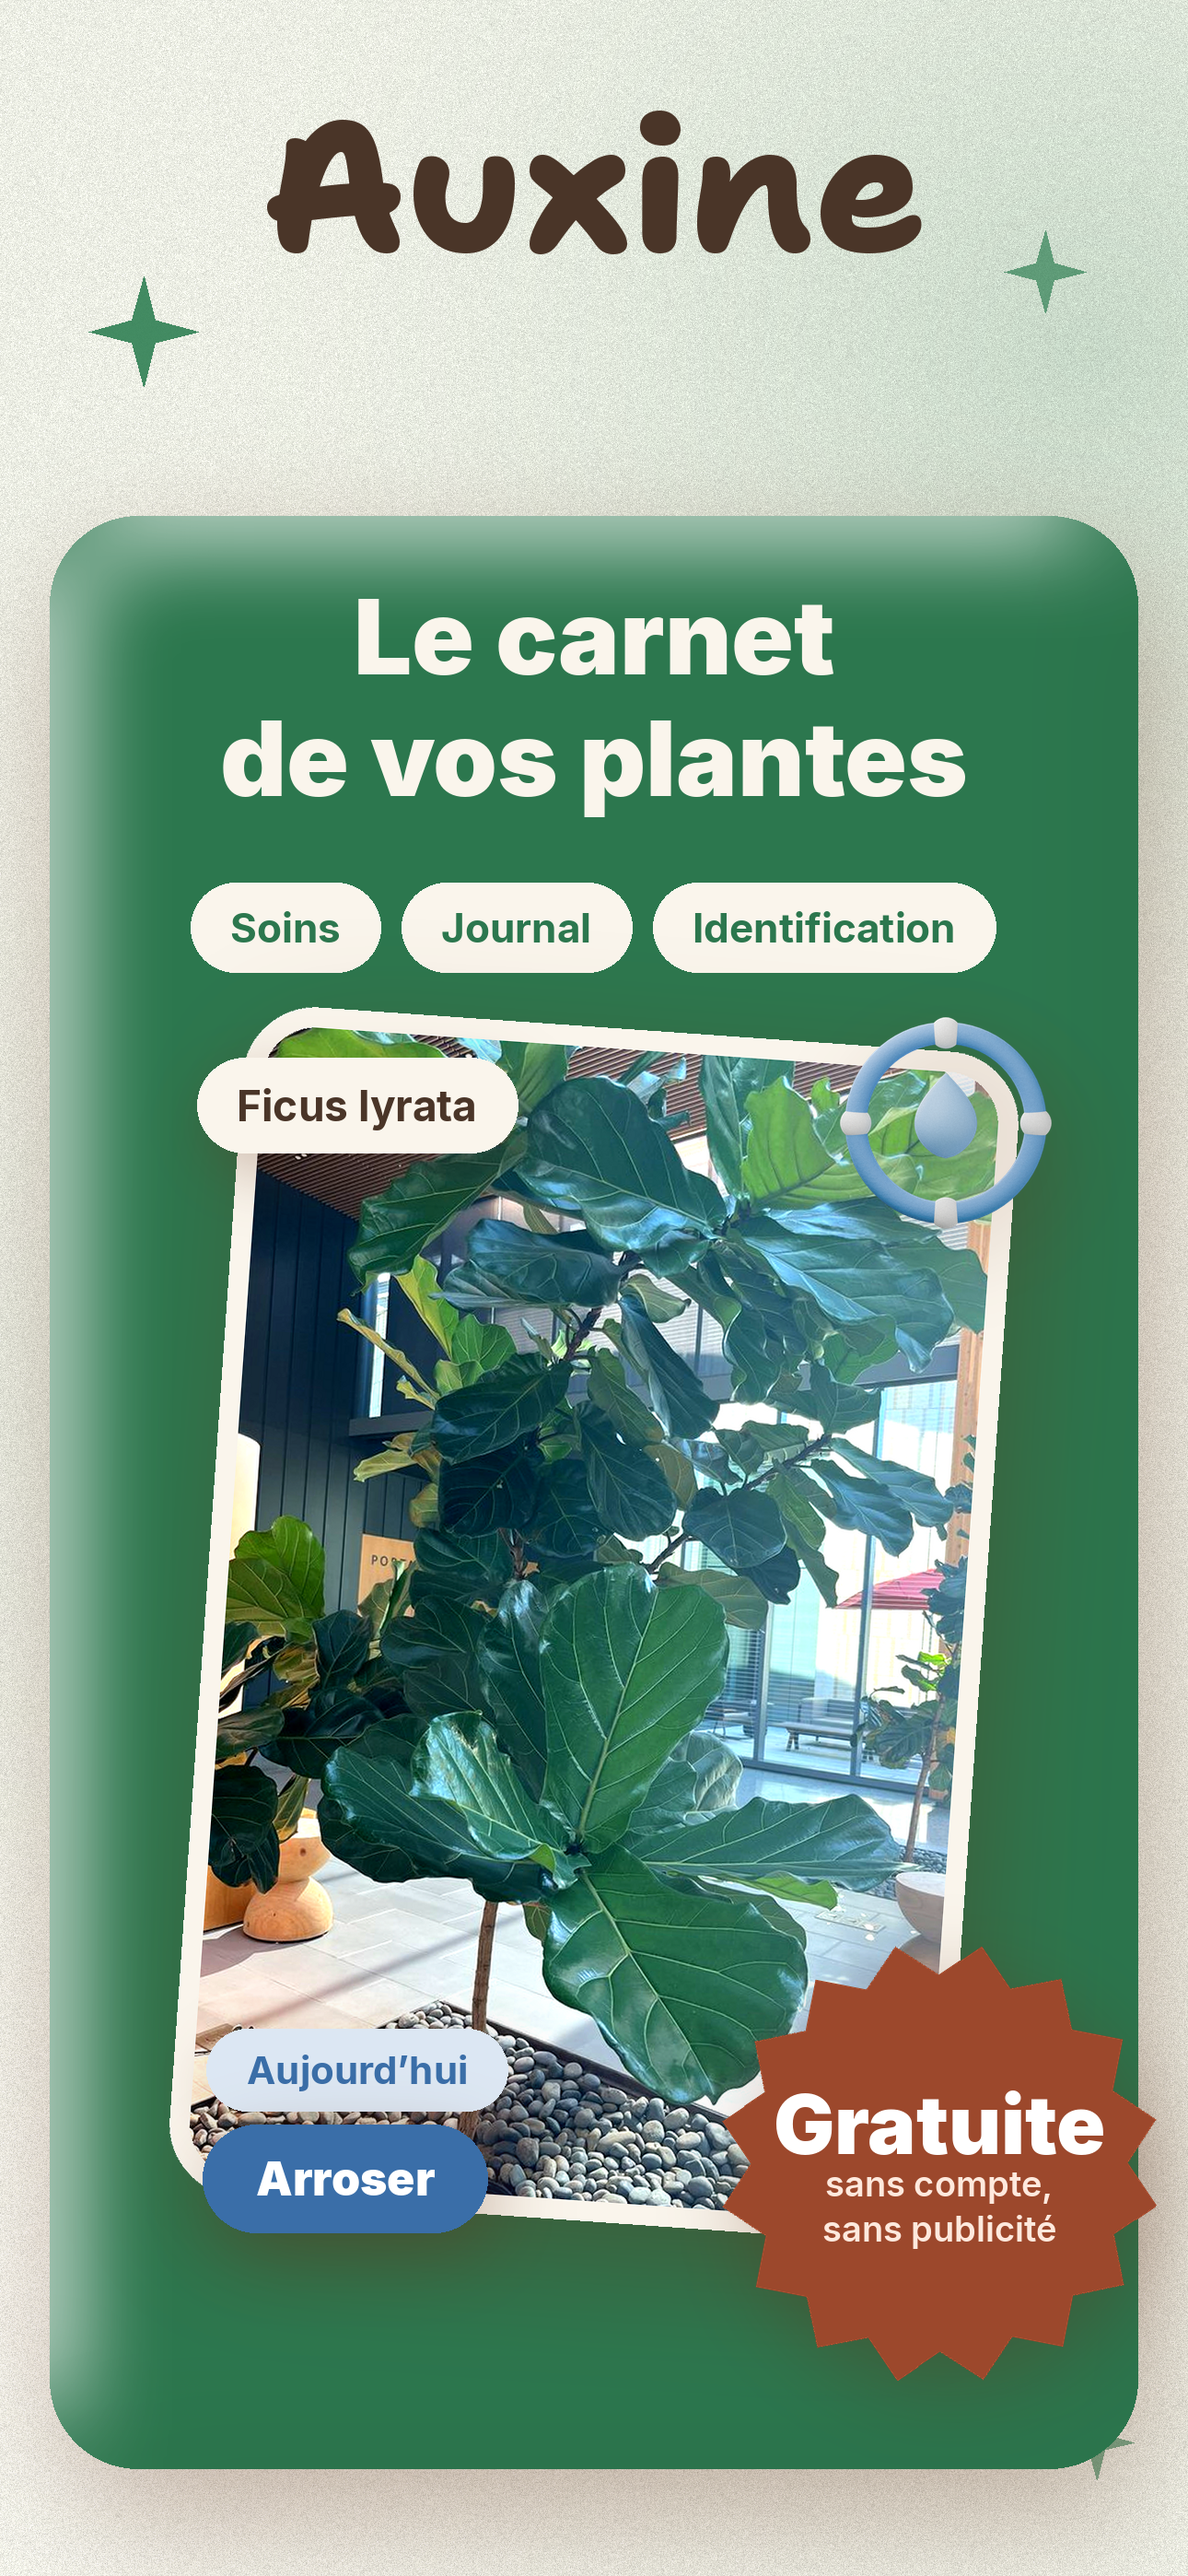
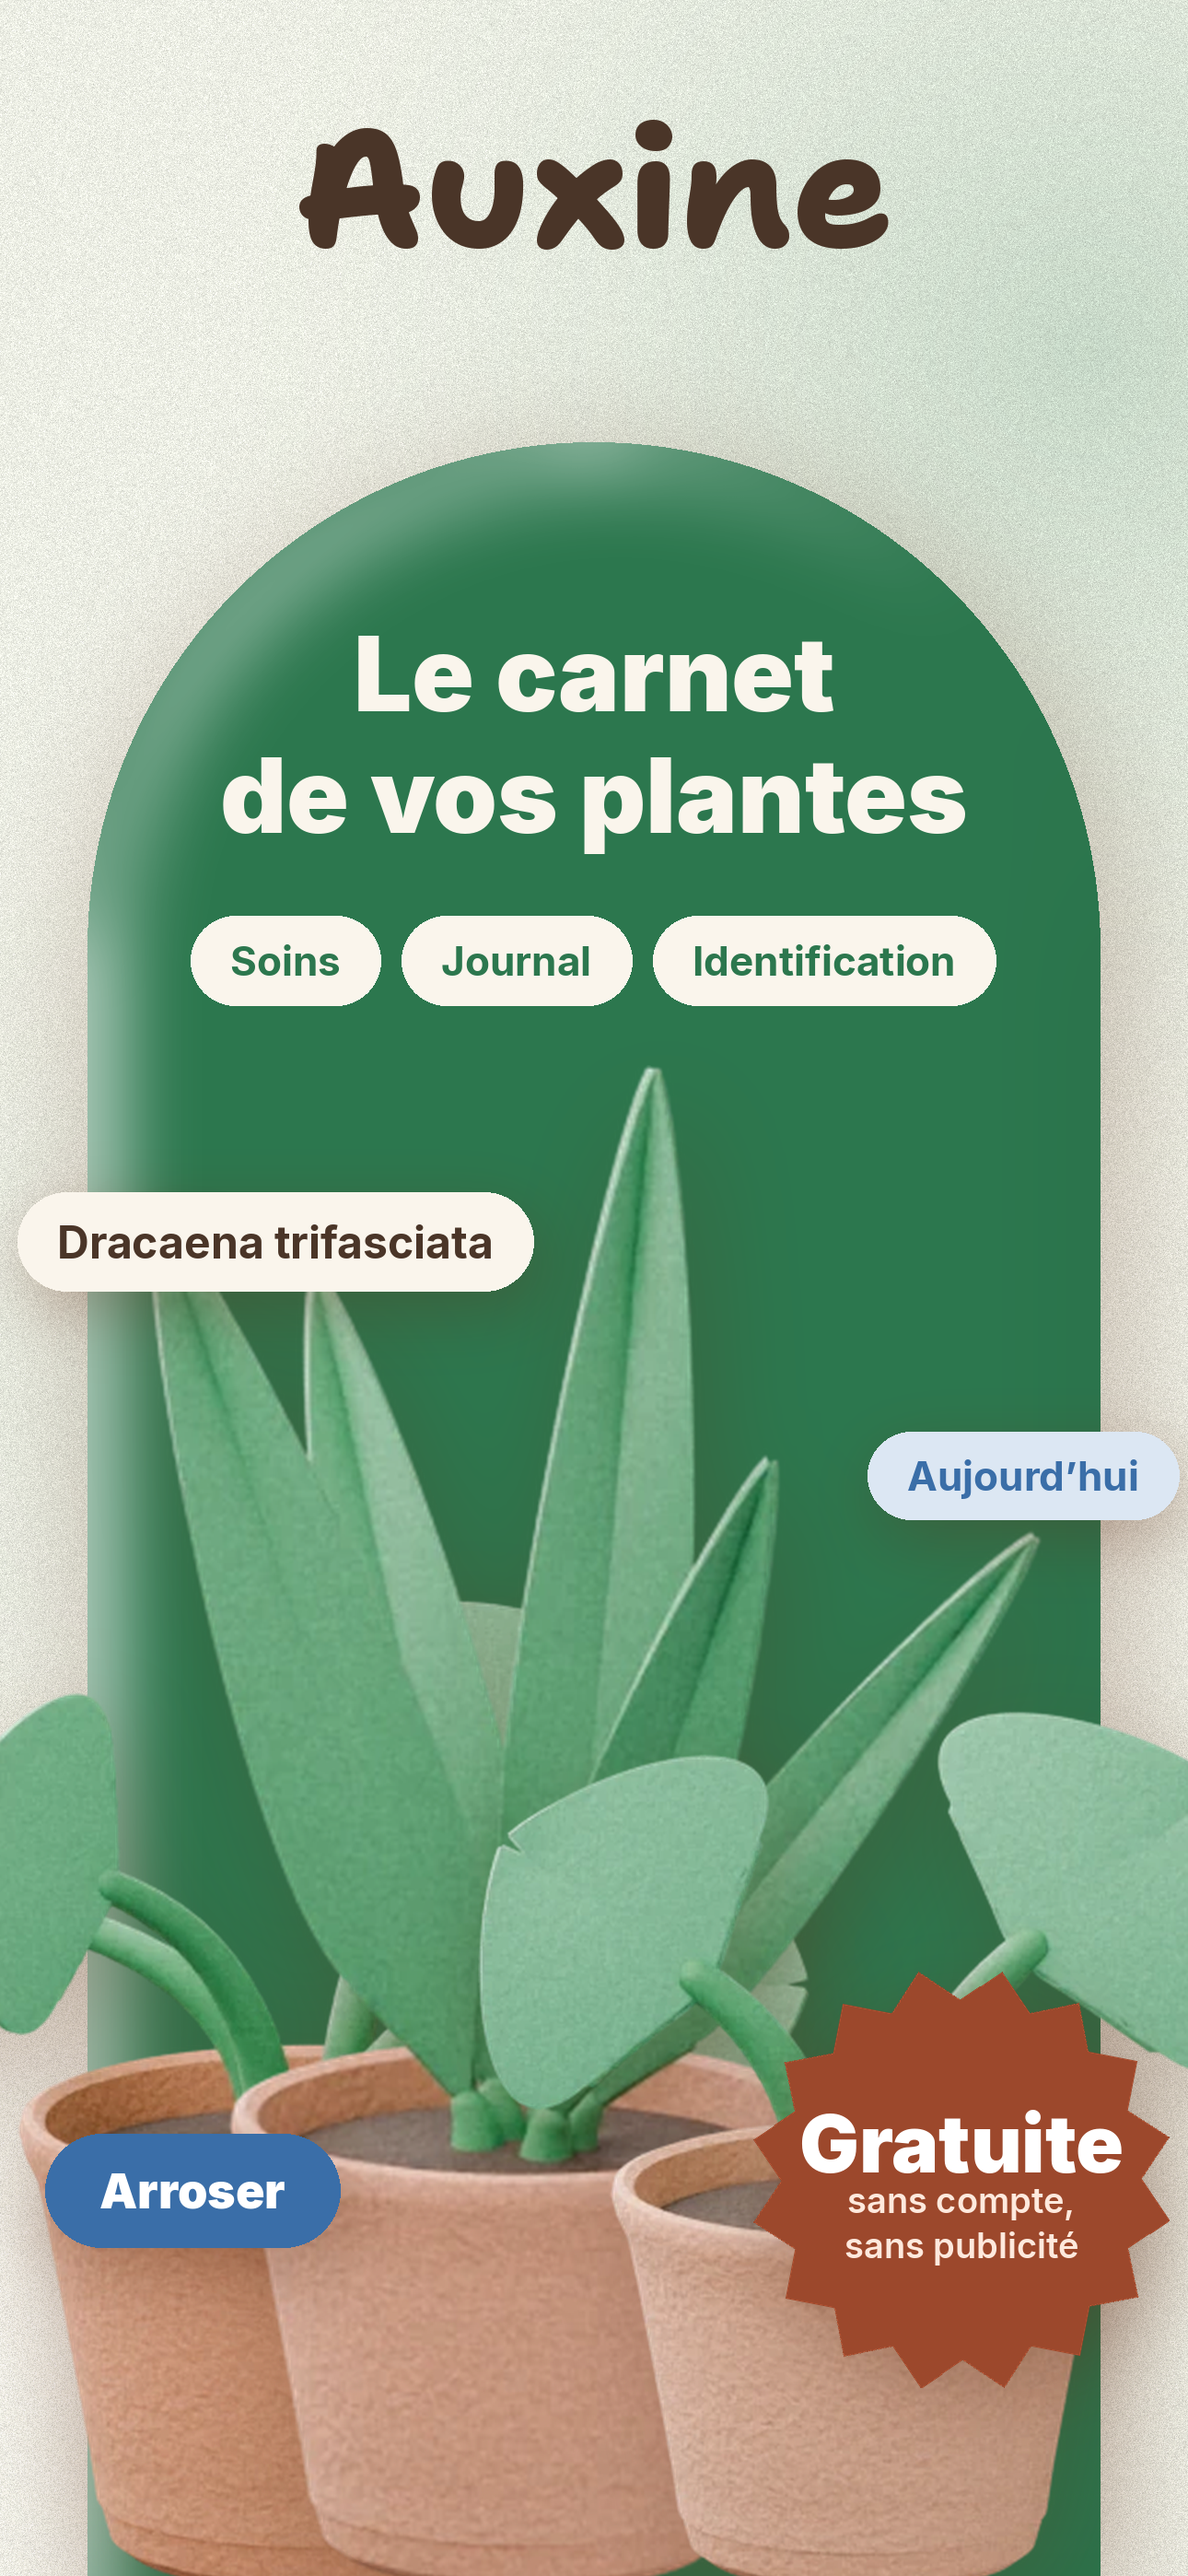
La fiche d'ouverture : une arche, un massif, plus de boîtes emboîtées
Une dalle posée sur le papier, un cadre photo posé sur la dalle : trois
rectangles arrondis l'un dans l'autre, et un grand vide vert entre les
deux. C'était ça, le laid.

L'arche règle les deux : elle sort du cadre par le bas, donc elle n'est
plus une boîte, et un massif de trois plantes d'argile la remplit à
grande échelle — celles de l'onboarding, pas une image de plus. Les
pastilles de l'app se posent à cheval sur son bord, l'autocollant sur le
massif. Le nom reste tracé à la main sur le papier.

`clay_card` devient un cas particulier de `clay_shape` : le biseau et
l'ombre de l'argile s'appliquent désormais à n'importe quelle silhouette,
l'arche comprise.

Claude-Session: https://claude.ai/code/session_01NWyBLWU43KdbaGJZsmnCAH

diff --git a/store/compose.py b/store/compose.py
@@ -21,7 +21,7 @@ import os
 import sys
 
 import numpy as np
-from PIL import Image, ImageDraw, ImageEnhance, ImageFilter, ImageFont
+from PIL import Image, ImageDraw, ImageFilter, ImageFont
 
 W, H = 1290, 2796
 HERE = os.path.dirname(os.path.abspath(__file__))
@@ -249,13 +249,11 @@ def paste_with_shadow(canvas, layer, pos, blur=40, offset=(0, 30), alpha=0.28):
     canvas.alpha_composite(layer, pos)
 
 
-def clay_card(size, radius, color=SURFACE):
-    """Une carte d'argile comme celles de l'app : l'aplat, un reflet en haut
-    à gauche, une ombre en bas à droite, rognés à la forme. Le calque rendu
-    est transparent hors de la carte ; l'ombre portée se pose à part."""
-    w, h = size
-    mask = Image.new('L', (w, h), 0)
-    ImageDraw.Draw(mask).rounded_rectangle((0, 0, w - 1, h - 1), radius=radius, fill=255)
+def clay_shape(mask, color=SURFACE):
+    """Une pièce d'argile à la forme donnée : l'aplat, un reflet en haut à
+    gauche, une ombre en bas à droite, rognés à la forme. Le calque rendu est
+    transparent hors de la pièce ; l'ombre portée se pose à part."""
+    w, h = mask.size
     layer = Image.new('RGBA', (w, h), color + (255,))
 
     def rim(dx, dy, blur):
@@ -273,6 +271,22 @@ def clay_card(size, radius, color=SURFACE):
     layer.alpha_composite(shade)
     layer.putalpha(mask)
     return layer
+
+
+def clay_card(size, radius, color=SURFACE):
+    """Une carte d'argile comme celles de l'app."""
+    mask = Image.new('L', size, 0)
+    ImageDraw.Draw(mask).rounded_rectangle((0, 0, size[0] - 1, size[1] - 1), radius=radius, fill=255)
+    return clay_shape(mask, color)
+
+
+def clay_arch(width, height, color=SURFACE):
+    """Une arche : un plein cintre posé sur des montants droits. Elle sort du
+    cadre par le bas, et rien dans la fiche ne se retrouve dans une boîte
+    dans une boîte."""
+    mask = Image.new('L', (width, height), 0)
+    ImageDraw.Draw(mask).rounded_rectangle((0, 0, width - 1, height + width), radius=width // 2, fill=255)
+    return clay_shape(mask, color)
 
 
 def place_phone(canvas, shot, y, width=1030, **modal):
@@ -406,8 +420,7 @@ COVER = {
     'fr': {
         'claim': 'Le carnet\nde vos plantes',
         'chips': ['Soins', 'Journal', 'Identification'],
-        'photo': 'ficus.jpg',
-        'species': 'Ficus lyrata',
+        'species': 'Dracaena trifasciata',
         'action': 'Arroser',
         'due': 'Aujourd’hui',
         'badge': ['Gratuite', 'sans compte,\nsans publicité'],
@@ -415,8 +428,7 @@ COVER = {
     'en': {
         'claim': 'The journal\nof your plants',
         'chips': ['Care', 'Journal', 'Identification'],
-        'photo': 'ficus.jpg',
-        'species': 'Ficus lyrata',
+        'species': 'Dracaena trifasciata',
         'action': 'Water',
         'due': 'Today',
         'badge': ['Free', 'no account,\nno ads'],
@@ -444,27 +456,6 @@ def starburst(size, points, inner, color):
     return layer
 
 
-def framed_photo(name, size, radius=56, border=22, angle=0.0):
-    """Une photo dans son cadre crème, épais : l'app montre des photos, et
-    une photo posée sans bord se confond avec le fond."""
-    photo = Image.open(os.path.join(HERE, 'demo-photos', name)).convert('RGB')
-    # Une photo d'intérieur sort terne à côté d'un aplat saturé : on la
-    # remonte comme le ferait un tirage, sans la dénaturer.
-    photo = ImageEnhance.Brightness(photo).enhance(1.16)
-    photo = ImageEnhance.Color(photo).enhance(1.26)
-    photo = ImageEnhance.Contrast(photo).enhance(1.08)
-    w, h = size
-    scale = max(w / photo.width, h / photo.height)
-    photo = photo.resize((int(photo.width * scale), int(photo.height * scale)), Image.LANCZOS)
-    photo = photo.crop(((photo.width - w) // 2, (photo.height - h) // 2, (photo.width - w) // 2 + w, (photo.height - h) // 2 + h))
-    card = Image.new('RGBA', (w + 2 * border, h + 2 * border), (0, 0, 0, 0))
-    ImageDraw.Draw(card).rounded_rectangle((0, 0, card.width - 1, card.height - 1), radius=radius + border, fill=CREAM + (255,))
-    mask = Image.new('L', (w, h), 0)
-    ImageDraw.Draw(mask).rounded_rectangle((0, 0, w - 1, h - 1), radius=radius, fill=255)
-    card.paste(photo, (border, border), mask)
-    return card.rotate(angle, resample=Image.BICUBIC, expand=True) if angle else card
-
-
 def chip(text, fnt, fill, ink, height=98, pad=44, radius=None):
     """Une pastille pleine : les boutons et les badges de l'app, en plus gros."""
     d0 = ImageDraw.Draw(Image.new('RGB', (10, 10)))
@@ -475,36 +466,40 @@ def chip(text, fnt, fill, ink, height=98, pad=44, radius=None):
     return layer
 
 
+# Le massif du bas de l'arche : l'asset, sa hauteur, l'abscisse de son pot.
+# Trois plantes de l'onboarding qui se chevauchent, comme un coin de pièce.
+COVER_PLANTS = [
+    ('collection_ronde.webp', 1080, 350),
+    ('collection_sansevieria.webp', 1660, 645),
+    ('collection_semis.webp', 960, 945),
+]
+
+
 def cover(lang):
-    """La fiche d'ouverture : le papier crème de l'app, une dalle d'argile
-    sauge posée dessus, et sur la dalle une vraie photo dans son cadre, les
-    objets d'argile de l'app et ses pastilles. Le nom est tracé à la main,
-    la revendication est en gras : c'est la seule fiche qui hausse le ton."""
+    """La fiche d'ouverture : le nom tracé sur le papier de l'app, puis une
+    arche d'argile sauge qui sort du cadre. Dedans, la revendication en gras,
+    les mots de la fiche, un massif de plantes d'argile, et les pastilles de
+    l'app posées à cheval sur le bord."""
     t = COVER[lang]
     img = background('sage')
-
-    # Quelques éclats d'argile, comme sur un autocollant.
-    for (sx, sy, ss, a) in ((96, 300, 120, 0.9), (1090, 250, 90, 0.7), (60, 2520, 104, 0.8), (1150, 2610, 82, 0.6)):
-        spark = starburst(ss, 4, 0.3, TINTS['sage'][0] + (int(255 * a),))
-        img.alpha_composite(spark, (sx, sy))
-
-    d = ImageDraw.Draw(img)
-    d.text((W // 2, 120), 'Auxine', font=hand(200, 800), fill=INK, anchor='mt')
-
-    # La dalle : la même argile que les cartes de l'app, en grand.
-    slab_x, slab_y, slab_w, slab_h = 54, 560, W - 108, 2120
-    slab = clay_card((slab_w, slab_h), 96, color=SAGE_SOLID)
-    paste_with_shadow(img, slab, (slab_x, slab_y), blur=70, offset=(16, 54), alpha=0.34)
     d = ImageDraw.Draw(img)
 
-    y = slab_y + 90
+    d.text((W // 2, 130), 'Auxine', font=hand(180, 800), fill=INK, anchor='mt')
+
+    # L'arche, qui descend hors du cadre.
+    arch_w, arch_top = 1100, 480
+    arch = clay_arch(arch_w, H - arch_top + 40, color=SAGE_SOLID)
+    ax = (W - arch_w) // 2
+    paste_with_shadow(img, arch, (ax, arch_top), blur=80, offset=(18, 40), alpha=0.30)
+    d = ImageDraw.Draw(img)
+
+    y = arch_top + 210
     f = font('Black', 112)
     for line in t['claim'].split('\n'):
         d.text((W // 2, y), line, font=f, fill=CREAM, anchor='mt')
         y += 132
 
-    # Les trois mots de la fiche, en pastilles crème.
-    y += 44
+    y += 40
     chips = [chip(c, font('Bold', 44), CREAM, SAGE_SOLID) for c in t['chips']]
     total = sum(c.width for c in chips) + 22 * (len(chips) - 1)
     x = (W - total) // 2
@@ -512,37 +507,32 @@ def cover(lang):
         img.alpha_composite(c, (x, y))
         x += c.width + 22
 
-    # La photo, penchée, dans son cadre crème — l'app montre de vraies photos,
-    # et c'est elle qui remplit la dalle.
-    card = framed_photo(t['photo'], (800, 1250), angle=-4)
-    px, py = (W - card.width) // 2, y + 130
-    paste_with_shadow(img, card, (px, py), blur=64, offset=(16, 48), alpha=0.34)
+    # Le massif, posé au bas de l'arche et coupé par le cadre.
+    base = H + 20
+    for name, height, cx in COVER_PLANTS:
+        src = Image.open(os.path.join(CLAY, name)).convert('RGBA')
+        src = src.crop(src.getbbox())
+        w = int(src.width * height / src.height)
+        paste_with_shadow(img, src.resize((w, height), Image.LANCZOS), (cx - w // 2, base - height), blur=56, offset=(14, 40), alpha=0.26)
 
-    # L'anneau d'arrosage, collé sur le coin haut de la photo.
-    ring = Image.open(os.path.join(CLAY, 'onboarding_3.png')).convert('RGBA')
-    ring = ring.crop(ring.getbbox())
-    rh = 230
-    ring = ring.resize((int(ring.width * rh / ring.height), rh), Image.LANCZOS)
-    paste_with_shadow(img, ring, (px + card.width - rh + 30, py + 16), blur=40, offset=(10, 28), alpha=0.28)
+    # Les pastilles de l'app, à cheval sur le bord de l'arche.
+    sp = chip(t['species'], font('Bold', 48), CREAM, INK, height=108)
+    paste_with_shadow(img, sp, (ax - 76, y + 300), blur=34, offset=(8, 22), alpha=0.30)
+    due = chip(t['due'], font('Bold', 44), TINTS['water'][1], WATER, height=96)
+    paste_with_shadow(img, due, (ax + arch_w - due.width + 86, y + 560), blur=34, offset=(8, 22), alpha=0.30)
+    act = chip(t['action'], font('Black', 52), WATER, (255, 255, 255), height=124, pad=60)
+    paste_with_shadow(img, act, (ax - 46, H - 480), blur=40, offset=(10, 26), alpha=0.34)
 
-    # Les pastilles de l'app, à cheval sur la photo.
-    sp = chip(t['species'], font('Bold', 46), CREAM, INK, height=104)
-    paste_with_shadow(img, sp, (px + 36, py + 60), blur=32, offset=(8, 20), alpha=0.30)
-    due = chip(t['due'], font('Bold', 42), TINTS['water'][1], WATER, height=90)
-    paste_with_shadow(img, due, (px + 46, py + card.height - 236), blur=32, offset=(8, 20), alpha=0.30)
-    act = chip(t['action'], font('Black', 50), WATER, (255, 255, 255), height=118, pad=58)
-    paste_with_shadow(img, act, (px + 42, py + card.height - 132), blur=38, offset=(10, 24), alpha=0.34)
-
-    # L'autocollant, collé de travers sur le coin de la dalle.
-    size = 480
+    # L'autocollant, collé de travers sur le bord droit de l'arche.
+    size = 460
     star = starburst(size, 16, 0.85, TERRACOTTA + (255,)).rotate(-11, resample=Image.BICUBIC)
     ds = ImageDraw.Draw(star)
-    ds.text((size // 2, size // 2 - 42), t['badge'][0], font=font('Black', 88), fill=(255, 255, 255), anchor='mm')
+    ds.text((size // 2, size // 2 - 40), t['badge'][0], font=font('Black', 86), fill=(255, 255, 255), anchor='mm')
     ty = size // 2 + 10
     for line in t['badge'][1].split('\n'):
         ds.text((size // 2, ty), line, font=font('SemiBold', 38), fill=(255, 233, 221), anchor='mt')
         ty += 46
-    paste_with_shadow(img, star, (W - size - 30, py + card.height - size + 150), blur=42, offset=(10, 26), alpha=0.32)
+    paste_with_shadow(img, star, (W - size - 16, H - 660), blur=42, offset=(10, 26), alpha=0.32)
     return img
 
 

diff --git a/store/README.md b/store/README.md
@@ -2,13 +2,14 @@
 
 Huit visuels par langue, au format iPhone 6,7 pouces (1290 × 2796). Le
 premier ne montre pas un écran : il hausse le ton, comme le font les
-fiches des concurrents du magasin — un aplat saturé, un titre énorme, une
-vraie photo, des pastilles d'interface posées dessus. Ici l'aplat est une
-dalle d'argile sauge sur le papier de l'app, la photo est une des photos
-CC0 de la démo dans un cadre crème penché, les pastilles sont celles de
-l'app à sa palette (l'espèce, l'échéance, le bouton d'arrosage), l'anneau
-d'arrosage vient de l'onboarding, et ce qui est gratuit tient sur un
-autocollant en étoile, terre cuite. Les sept autres montrent une capture réelle de l'app dans un
+fiches des concurrents du magasin — un aplat saturé, un titre énorme, des
+pastilles d'interface posées dessus. Ici l'aplat est une arche d'argile
+sauge qui sort du cadre par le bas, posée sur le papier de l'app ; dedans,
+un massif de trois plantes de l'onboarding à grande échelle, et les
+pastilles de l'app à sa palette — l'espèce, l'échéance, le bouton
+d'arrosage. Ce qui est gratuit tient sur un autocollant en étoile, terre
+cuite. Le nom est tracé à la main sur le papier, au-dessus de l'arche.
+Les sept autres montrent une capture réelle de l'app dans un
 iPhone dessiné, entier et droit, l'écran complet : c'est l'écran qu'on vend,
 rien ne le recouvre. Au-dessus, un titre tracé en Shantell Sans (la police
 « main » de l'app) ; entre le titre et le téléphone, un objet 3D de la série
@@ -17,7 +18,7 @@ crème de l'app, avec son grain ; les ombres sont brunes, jamais noires.
 
 | # | Écran | Objet | Teinte |
 |---|---|---|---|
-| 1 | Fiche d'ouverture : dalle d'argile, photo encadrée, autocollant | anneau d'arrosage | sauge |
+| 1 | Fiche d'ouverture : arche d'argile, massif de plantes, autocollant | trois plantes de l'onboarding | sauge |
 | 2 | Aujourd'hui, rien à faire, « À venir » en grille | trois rangées cochées | eau |
 | 3 | Plantes (la collection) | monstera en pot | sauge |
 | 4 | Fiche d'une plante (Basilic), photo en tête | plante ronde en pot | terre cuite |
@@ -143,5 +144,5 @@ premier lancement ; Shantell Sans vient de `assets/fonts/`. Les captures et les 
 Les textes des visuels sont dans `compose.py` (`COPY`), coupés à la main pour
 que chaque titre tienne sur deux lignes ; la taille est commune aux sept
 captures. L'ordre des écrans, les teintes et les objets sont dans `SCENES` ;
-les textes de la fiche d'ouverture dans `COVER`, qui nomme aussi la photo
-qu'elle encadre.
+les textes de la fiche d'ouverture dans `COVER`, son massif dans
+`COVER_PLANTS`.
